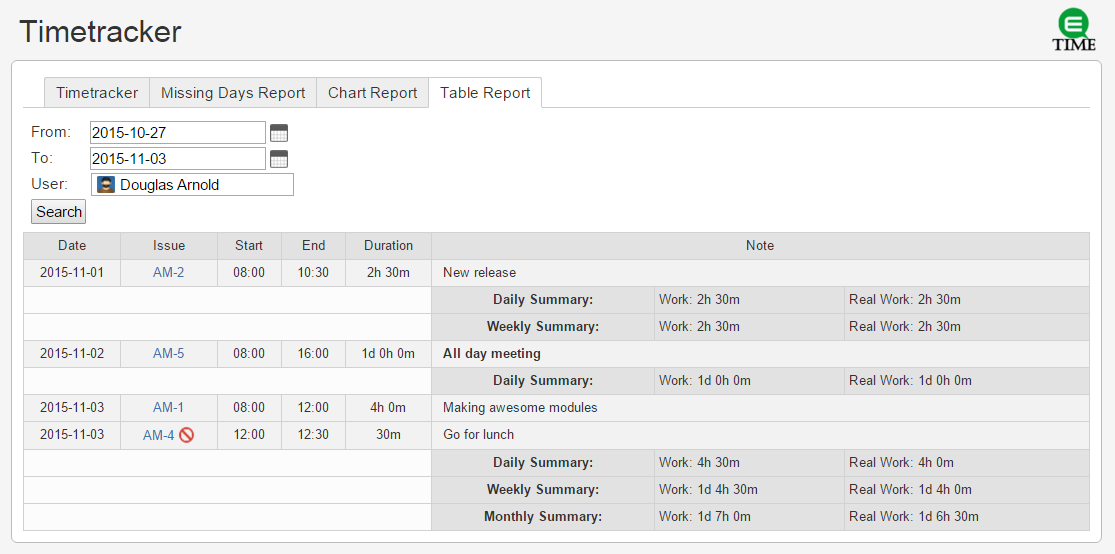
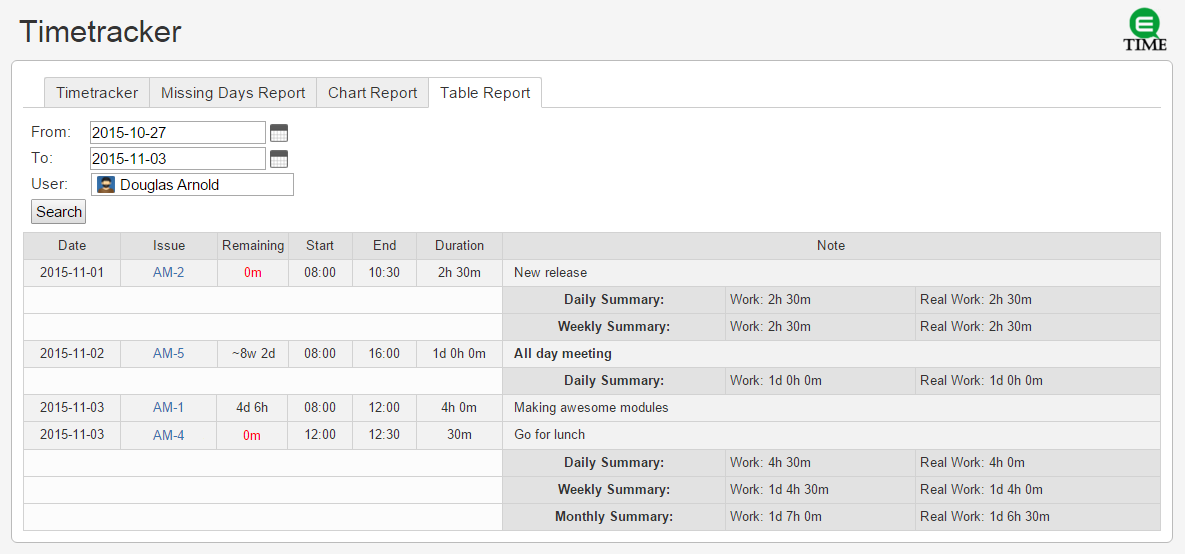
update for version 2.2.1

diff --git a/index.html b/index.html
@@ -20,7 +20,8 @@
 <html>
 
 <head>
-<meta charset="utf-8">
+<meta name="description" content="EverIT Timetracker plugin for Atlassian JIRA. 
+Easier, faster time tracking, and timelog reporting." charset="utf-8">
 <title>Everit Timetracker Plugin</title>
 <link rel="icon" type="image/ico" href="http://www.everit.org/fonts/favicon.ico">
 
@@ -34,6 +35,11 @@
   _gaq.push([ '_setDomainName', 'everit.org' ]);
   _gaq.push([ '_trackPageview' ]);
 </script>
+<style type="text/css">
+    .marketplace-badge {
+        padding-top:15px;
+    }
+</style>
 </head>
 
 <body class="bs-docs-home" data-spy="scroll" data-target="#affix-nav">
@@ -67,30 +73,31 @@
       <span class="bs-docs-booticon bs-docs-booticon-lg bs-docs-booticon-outline"> <img
         class="logo" src="http://www.everit.org/fonts/sbz_e.svg" alt="E">
       </span>
-      <p class="lead">Jira Timetracker Plugin</p>
+      <p class="lead">Timetracker Plugin for JIRA</p>
     </div>
   </div>
   <div class="container">
     <div class="text-center text-danger" style="padding-top: 1em;">
-      Do you need Jira and OSGi developers? <strong>Daily rates start from 150 €!</strong> For more
+      Do you need JIRA and OSGi developers? <strong>Daily rates start from 150 €!</strong> For more
       information, please <a href="http://www.everit.biz#contact">contact us</a>!
     </div>
     <div class="col-md-10">
 
       <div class="bs-docs-featurette cookbook" id="intoduction">
-        <h3 style="text-align: center">JIRA Timetracker Plugin enables its users to log their
-          working hours in a fast and easy manner. The plugin provides users authenticated to JIRA
-          with a simple and easy-to-use interface to manage their worklogs. By means of the plugin,
-          worklogs may be created, modified or deleted.</h3>
+        <h3 style="text-align: center">Timetracker Plugin for JIRA enables its users to log their
+          working hours in a fast and easy manner. The plugin provides users a simple and easy-to-use 
+		  interface to manage their worklogs, and create useful reports from their worklog entries. 
+		  Worklogs can be created, modified, copied or deleted.</h3>
       </div>
       <hr class="featurette-divider">
 
       <div class="bs-docs-featurette cookbook" id="install">
         <h2>Install</h2>
         <p>
-          The plugin can be downloaded or installed from <a
-            href="https://marketplace.atlassian.com/plugins/org.everit.jira.timetracker.plugin">Atlassian
-            Marketplace</a>.
+          The plugin can be downloaded or installed from Atlassian Marketplace.
+			<a href="https://marketplace.atlassian.com/plugins/org.everit.jira.timetracker.plugin">
+			  <img class="img-responsive marketplace-badge" src="images/marketplace_available_dark_140x60.png" alt="Marketplace"/>
+			</a>
         </p>
       </div>
       <hr class="featurette-divider">
@@ -98,14 +105,27 @@
       <div class="bs-docs-featurette cookbook" id="login">
         <h2>Login</h2>
         <p>To use the plugin, it is necessary to log into JIRA. After authentication, the plugin
-          can be found amongst the Jira menu items by the name of Timetracker.</p>
+          can be found amongst the JIRA menu items by the name of Timetracker.</p>
+      </div>
+      <hr class="featurette-divider">
+	  
+	  <div class="bs-docs-featurette cookbook" id="menu">
+        <h2>Menu</h2>
+        <p>After installation you can see Timetracker menu in the JIRA top navigation bar. The menu has the following items:</p>
+		<ul>
+          <li><b>Timetracker</b> - After clicking on the Timetracker menu item, the plugin interface appears.</li>
+		  <li><b>Documentation</b> - This item navigates you to the Timetracker user guide page.</li>
+          <li><b>Administration</b> - This item is a shortcut to the Timetracker <a href="#global_settings">Global settings</a>. 
+		  The Administration option is only available for JIRA administrators.</li>          
+        </ul>
+		<img class="img-responsive img-thumbnail" src="images/jttp_menu.png"
+          alt="Menu" />
       </div>
       <hr class="featurette-divider">
 
       <div class="bs-docs-featurette cookbook" id="interface">
         <h2>Timetracker plugin interface and input fields</h2>
-        <p>After clicking on the Timetracker menu item, the plugin interface appears. The
-          interface consists of different parts: the date modification part, the worklog total part,
+        <p>The interface consists of different parts: the date modification part, the worklog total part,
           the worklog table part and the input fields.</p>
         <img class="img-responsive img-thumbnail" src="images/jttp_timetracker.png"
           alt="Timetracker" />
@@ -133,7 +153,7 @@
           from the first day of the month 00:00:00 to the last day of the month 23:59:59. The
           worklogs related to actual work are summarized below the worklog summary. This Real Work
           Summary contains only the time spent with actual work based on the worklogs that are not
-          related to non-working issues. The Real Work Summary uses Jira format (d h m) to display
+          related to non-working issues. The Real Work Summary uses JIRA format (d h m) to display
           the daily, weekly and monthly summaries.</p>
         <img class="img-responsive img-thumbnail" src="images/jttp_summary.png" alt=Summary />
 
@@ -143,10 +163,10 @@
         <ul>
           <li><b>Issue</b> - Issue code to which the worklog belongs. If the pointer hovered
             above the isseId, the issue description will appear. By clicking on it, the issue can be
-            viewed. Next to the issue code a red exclamation mark appears if it is not closed and if
-            there is no more estimated time assigned to it. If the issue is amongst the
-            non-estimated ones, then the exclamation mark does not appear.</li>
-		  <li><b>Remaining</b> - Remaining time on the issue in JIRA format (d h m).</li>
+            viewed. If it is closed, the Issue code get strikethrough.</li>
+		  <li><b>Remaining</b> - Remaining time on the issue in JIRA format (d h m). If Issue is not closed and if
+            there is no more estimated time assigned to it, the remaining time becomes red. If the Issue is closed,
+			the remaining time becomes grey.</li>
           <li><b>Start</b> - Start date of the worklog. Its format: hh:mm.</li>
           <li><b>End</b> - End date of the worklog: Its format: hh:mm.</li>
           <li><b>Duration</b> - Duration of the worklog; the time between the start and the end
@@ -190,17 +210,15 @@
             time.
             <ul>
               <li>By pressing the Now button first, the current time can be set as a
-                value.Pressing the Now button second and third times the button rounding function
+                value. Pressing the Now button second and third times the button rounding function
                 will round the time with the setted values first up then down.</li>
             </ul></li>
           <li><b>Duration</b> - Duration of the worklog. It is optional, but the End time or
             the Duration field has to be filled in. Its format: hh:mm or Xh XXm. The value cannot
             exceed the value of 24:00-Start Time.</li>
-          <li><b>Note</b> - The worklog description can be given in the note field. By default
-            the default note is “Default worklog description!”. The note input field handles the
-            text formatting annotations. <a
-            href="https://jira.atlassian.com/secure/WikiRendererHelpAction.jspa?section=all">Text
-              formatting help</a></li>
+          <li><b>Note</b> - The worklog description can be given in the note field. The note input field handles the 
+            <a href="https://jira.atlassian.com/secure/WikiRendererHelpAction.jspa?section=all">text formatting</a> annotations. 
+			The available toolbar appears on JIRA 6.4.x or later.</li>
         </ul>
         <p>
           The Issue and Note field can be copied from the <a href="#worklog_table">Worklog table</a>
@@ -243,7 +261,15 @@
       </div>
       <hr class="featurette-divider">
 
-      <div class="bs-docs-featurette cookbook" id="delete_worklogs">
+      <div class="bs-docs-featurette cookbook" id="copy_worklogs">
+        <h2>Copy Worklogs</h2>
+        <p>Worklogs belonging to a given day can be copied. After pressing the copy button the
+          worklog data are displayed with yellow background. You can now navigate to an other day 
+		  and copy the worklog data by clicking on the Submit button.</p>
+      </div>
+      <hr class="featurette-divider">
+	  
+	  <div class="bs-docs-featurette cookbook" id="delete_worklogs">
         <h2>Delete Worklogs</h2>
         <p>Worklogs belonging to a given day can be deleted. To do so, in the worklog table,
           after the worklog the Delete button needs to be pressed. Then, the worklog is deleted from
@@ -345,10 +371,12 @@
           00:00, whereas the date in the To field is considered till 23:59. By default, the value of
           the From field is a date being a month earlier than the current date, while the value of
           the To field is the current date.</p>
-        <p>The report lists the days where the worklogs spent time is less than 8 hours. This
-          report is available if the first checkbox is checked. An other options in this case if the
-          query not exclude the non-working issues, for this type of query the second checkbox have
-          to be checked. The second checkbox is blocked if the first one is not activated.</p>
+        <p>The report lists the days where the worklogs spent time is less than the 
+		<a href="https://confluence.atlassian.com/jira/configuring-time-tracking-185729592.html">configured</a> 
+		  numer of working hours per day. This report is available if the first checkbox is checked. 
+		  An other options in this case if the query not exclude the non-working issues, 
+		  for this type of query the second checkbox have to be checked. 
+		  The second checkbox is blocked if the first one is not activated.</p>
         <img class="img-responsive img-thumbnail" src="images/jttp_missing_days.png"
           alt="Missing days report" />
       </div>
@@ -379,7 +407,7 @@
         <p>With the help of the Table Report tab, a table is returned showing the saved worklogs
           between the given dates for the given user.</p>
         <p>
-          The displayed table contains the following data of the worklogs: Date, Issue key, Start
+          The displayed table contains the following data of the worklogs: Date, Issue key, Remaining, Start
           time, End time, Duration, Worklog note. <br> After each day/week/month there are a
           summary row which shows the total of the worklogs for the interval. <br> The "Real
           work" field does not count the projects defined at the <a href="#non_working_setting">Non-Working
@@ -461,6 +489,7 @@
 			 <li>Usage count of the Table Report</li>
 			 <li>User Agent of the browser being used</li>
 			 <li>Timetracker version number</li>
+			 <li>JIRA version number</li>
 		   </ul>
 		<p>This option is on by default, but you can switch it off on the Global settings page.</p>
 	  </div>
@@ -484,6 +513,28 @@
 	  
       <div class="bs-docs-featurette cookbook" id="release_notes">
         <h2>Release notes</h2>
+		<h3>Timetracker version 2.2.1</h3>
+		<h4 style="margin-left: 20px;">Bugfix</h4>
+        <ul>
+          <li>Fix text area under JIRA 6.4.x.</li>
+          <li>Show error message instead of errorpage if issue is in Done state, and work logging is prohibited.</li>
+          <li>Do not show error page if installed on JIRA without a project.</li>
+        </ul>
+        <h4 style="margin-left: 20px;">Changes</h4>
+        <ul>
+          <li>Respect JIRA Time Tracking Configuration. (<a
+            href=" https://github.com/everit-org/jira-timetracker-plugin/issues/133">#133</a>)
+		  </li>
+		  <li>Wrap long content.</li>
+          <li>Preservation of data on the pages.</li>
+          <li>Highlight worklog data when copying.</li>
+          <li>Change Timetracker error page.</li>
+          <li>If Issue is in Done state, the Issue code get strikethrough and the remaining time becomes grey.</li>          
+          <li>Add Remaining column to the Table Report.</li>
+          <li>New navigation menu. Add Administration and Documentation.</li>
+        </ul>
+		
+		
 		<h3>Timetracker version 2.2.0</h3>
 		<h4 style="margin-left: 20px;">Bugfix</h4>
         <ul>
@@ -577,7 +628,7 @@
         </ul>
         <h4 style="margin-left: 20px;">Improvements</h4>
         <ul>
-          <li>The default Jira snytax (2h 30m) is now supported in the duration field. (<a
+          <li>The default JIRA snytax (2h 30m) is now supported in the duration field. (<a
             href="https://github.com/everit-org/jira-timetracker-plugin/issues/32">#32</a>).
           </li>
           <li>Added global setting to set the first day of the week in the calendar. (<a
@@ -676,6 +727,7 @@
           data-offset-bottom="140">
           <li><a href="#install">Install</a></li>
           <li class="active"><a href="#login">Login</a></li>
+		  <li><a href="#menu">Menu</a></li>
           <li><a href="#interface">Timetracker plugin interface and input fields</a>
             <ul class="nav nav-pills nav-stacked">
               <li><a href="#date_modification">Date modification</a></li>
@@ -687,7 +739,8 @@
           <li><a href="#edit_worklogs">Edit worklogs</a>
             <ul class="nav nav-pills nav-stacked">
               <li><a href="#edit_all">Edit all function</a></li>
-            </ul></li>
+            </ul></li>			
+		  <li><a href="#copy_worklogs">Copy worklogs</a></li>
           <li><a href="#delete_worklogs">Delete worklogs</a></li>
           <li><a href="#settings">Settings</a>
             <ul class="nav nav-pills nav-stacked">
